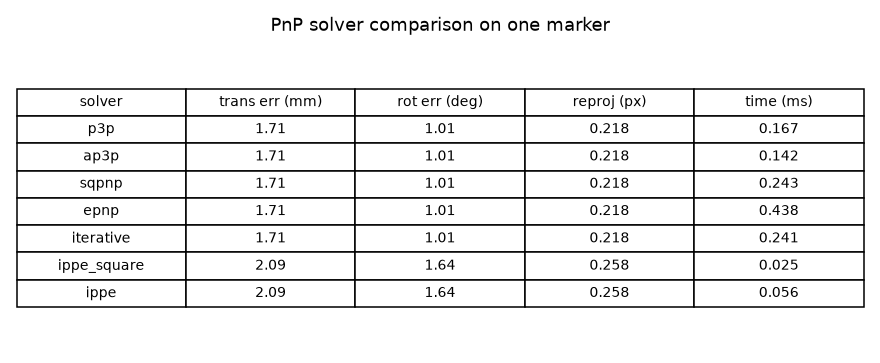
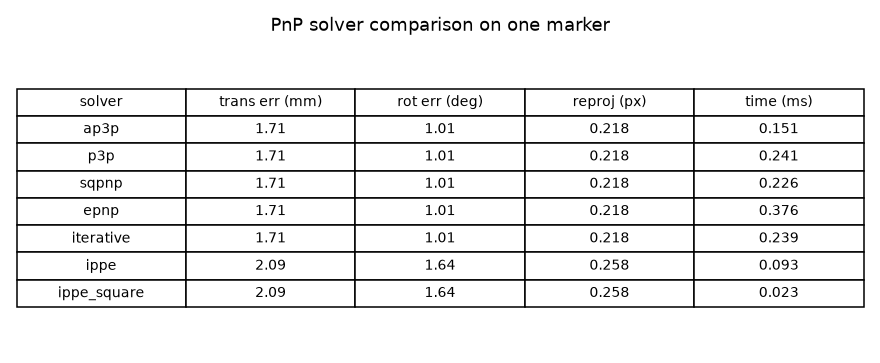
Document multi-marker board pose with occlusion-robustness figure

diff --git a/scripts/make_figures.py b/scripts/make_figures.py
@@ -13,10 +13,11 @@ from campose import visualization as viz  # noqa: E402
 from campose.board import CheckerboardSpec  # noqa: E402
 from campose.calibrator import CameraCalibrator  # noqa: E402
 from campose.camera_model import CameraIntrinsics  # noqa: E402
+from campose.marker_board import grid_board  # noqa: E402
 from campose.pose_estimator import PoseEstimator, _marker_object_points  # noqa: E402
 from campose.rotations import geodesic_angle, rodrigues_to_matrix  # noqa: E402
 from campose.smoothing import PoseSmoother  # noqa: E402
-from campose.synthetic import VirtualCamera, render_aruco_marker  # noqa: E402
+from campose.synthetic import VirtualCamera, render_aruco_marker, render_marker_board  # noqa: E402
 
 ROOT = Path(__file__).resolve().parent.parent
 FIGURES = ROOT / "figures"
@@ -172,6 +173,36 @@ def _smoothing_figure() -> None:
     plt.close(fig)
 
 
+def _board_occlusion_figure(intrinsics) -> None:
+    board = grid_board(3, 3, marker_length=0.04, marker_separation=0.01)
+    estimator = PoseEstimator(intrinsics)
+    rvec, tvec = np.array([0.15, -0.2, 0.05]), np.array([0.02, -0.01, 0.6])
+    all_ids = board.all_ids()
+    visible_counts, trans_errs, rot_errs = [], [], []
+    for shown in range(9, 0, -1):
+        rendered = render_marker_board(intrinsics, SIZE, board, rvec, tvec, only_ids=all_ids[:shown])
+        result = estimator.estimate_board(rendered.image, board)
+        if result is None:
+            continue
+        visible_counts.append(shown)
+        trans_errs.append(np.linalg.norm(result.pose.translation - rendered.tvec) * 1000)
+        rot_errs.append(geodesic_angle(rodrigues_to_matrix(rendered.rvec), result.pose.rotation_matrix))
+    fig, (a, b) = plt.subplots(1, 2, figsize=(11, 4))
+    a.plot(visible_counts, trans_errs, "o-", color="#4c72b0")
+    a.invert_xaxis()
+    a.set_xlabel("markers visible (of 9)")
+    a.set_ylabel("translation error (mm)")
+    a.set_title("Board pose holds under occlusion")
+    b.plot(visible_counts, rot_errs, "o-", color="#d1495b")
+    b.invert_xaxis()
+    b.set_xlabel("markers visible (of 9)")
+    b.set_ylabel("rotation error (deg)")
+    b.set_title("Rotation stays bounded")
+    fig.tight_layout()
+    fig.savefig(FIGURES / "board_occlusion.png", dpi=110)
+    plt.close(fig)
+
+
 def main() -> None:
     FIGURES.mkdir(exist_ok=True)
     calibrator = _build_calibrator()
@@ -184,6 +215,7 @@ def main() -> None:
     _solver_figure(intrinsics)
     _robustness_figure(intrinsics)
     _smoothing_figure()
+    _board_occlusion_figure(intrinsics)
     print(f"\nWrote figures to {FIGURES}")
 
 

diff --git a/README.md b/README.md
@@ -206,6 +206,25 @@ Enable it in the live demo with `python -m campose live ... --smooth`.
 
 ---
 
+## Multi-marker board pose
+
+A single marker vanishes the moment a hand covers it. A **marker board** — several
+ArUco markers at known relative positions — pools every visible marker's corners
+into one PnP solve, so the pose survives heavy occlusion. On a 3×3 grid the board
+pose stays accurate (translation within ~2.7 mm, rotation under ~1.2°) even when
+only one of nine markers is visible.
+
+<p align="center"><img src="figures/board_occlusion.png" width="80%" alt="Board pose under occlusion"/></p>
+
+```python
+from campose import grid_board, PoseEstimator
+board = grid_board(markers_x=3, markers_y=3, marker_length=0.04, marker_separation=0.01)
+result = PoseEstimator.from_calibration("calibration.json").estimate_board(image, board)
+print(result.marker_count, result.pose.translation, result.pose.reprojection_error)
+```
+
+---
+
 ## Package layout
 
 ```
@@ -217,7 +236,8 @@ campose/
 ├── results.py         # CalibrationResult / BoardPose value objects
 ├── io.py              # JSON / YAML / npz save + load
 ├── solvers.py         # unified PnP solver interface
-├── pose_estimator.py  # ArUco + planar-target 6-DoF pose
+├── pose_estimator.py  # ArUco + planar-target + marker-board 6-DoF pose
+├── marker_board.py    # multi-marker board layout + grid constructor
 ├── visualization.py   # 3D poses, distortion maps, error charts, axis overlay
 ├── evaluation.py      # the four experiment runners
 ├── quality.py         # pre-calibration capture-quality assessment
@@ -240,8 +260,7 @@ campose/
 
 ## Extensions (natural next steps)
 
-Stereo calibration · ChArUco boards for graceful occlusion handling ·
-multi-marker board pose.
+Stereo calibration · ChArUco boards for graceful occlusion handling.
 
 ---
 
